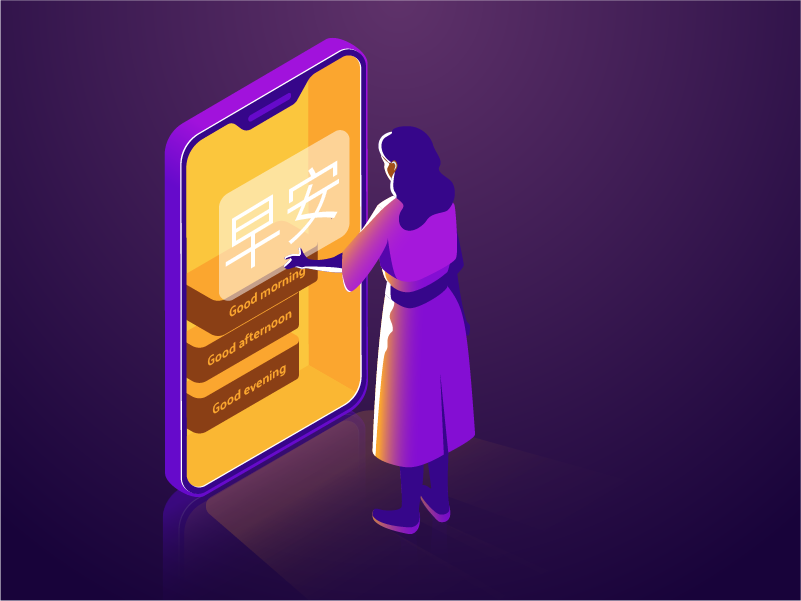
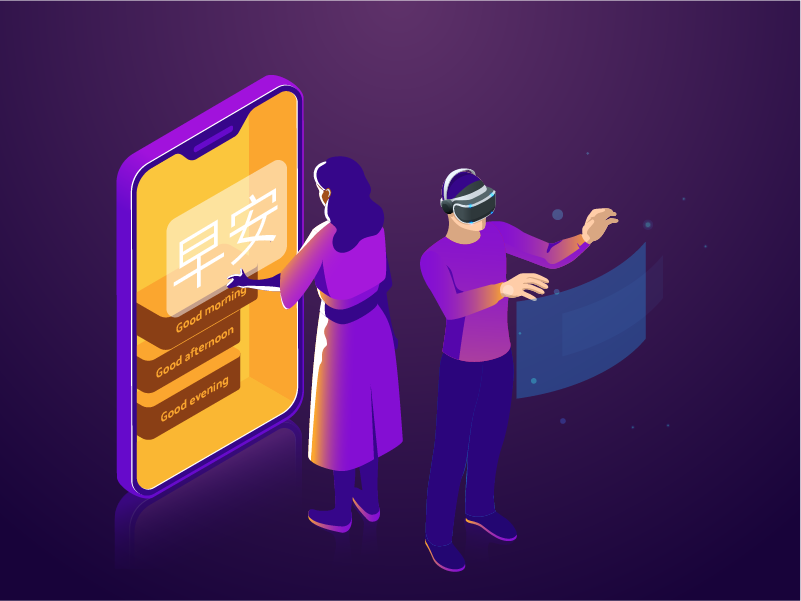
Add Products and styles

diff --git a/src/modules/Innovations/About/partials/Clients.vue b/src/modules/Innovations/About/partials/Clients.vue
@@ -1,0 +1,80 @@
+<template>
+  <v-container grid-list-lg>
+    <v-layout row wrap justify-center align-center>
+      <v-flex xl8 lg10 md12 xs12>
+        <v-card flat class="my-5">
+          <v-card-text class="py-5 text-xs-center">
+            <div class="my-5 text-xs-center">
+              <h1 class="primary--text mb-3">
+                {{ trans('Our Clients') }}
+              </h1>
+            </div>
+            <v-layout row wrap align-center justify-center>
+              <template v-for="item in items">
+                <v-flex
+                  :key="item"
+                  md4 xs12
+                  >
+                  <img :width="item.width" :src="item.thumbnail" alt="">
+                </v-flex>
+              </template>
+            </v-layout>
+          </v-card-text>
+        </v-card>
+      </v-flex>
+    </v-layout>
+  </v-container>
+</template>
+
+<script>
+import store from '@/store'
+import AOS from 'aos'
+import 'aos/dist/aos.css'
+import dole from '@/modules/Innovations/About/assets/images/clients/dole.png'
+import ilo from '@/modules/Innovations/About/assets/images/clients/ilo.png'
+import pjs from '@/modules/Innovations/About/assets/images/clients/pjs.png'
+
+export default {
+  store,
+  name: 'Clients',
+
+  data () {
+    return {
+      items: [
+        {
+          thumbnail: dole,
+          width: '200',
+        },
+        {
+          thumbnail: ilo,
+          width: '200',
+        },
+        {
+          thumbnail: pjs,
+          width: '300',
+        }
+      ]
+    }
+  },
+
+  components: {
+    AOS
+  },
+
+  mounted () {
+    this.preventRightClick()
+
+    setTimeout(function () {
+      AOS.init({
+        once: true,
+      })
+    }, 400)
+  },
+
+  methods: {
+    preventRightClick () {
+      return false
+    }
+  }
+}
+</script>

diff --git a/src/modules/Innovations/Product/systems/CMS.vue b/src/modules/Innovations/Product/systems/CMS.vue
@@ -22,7 +22,7 @@ import iconOne from './assets/icons/cms/1.svg'
 import iconTwo from './assets/icons/cms/2.svg'
 import iconThree from './assets/icons/cms/3.svg'
 import iconFour from './assets/icons/cms/4.svg'
-import video from './assets/videos/cms.mp4'
+// import video from './assets/videos/cms.mp4'
 
 export default {
   store,
@@ -44,9 +44,7 @@ export default {
       },
 
       content: {
-        dataset: {
-          hasVideo: false,
-        },
+        hasVideo: false,
         heading: 'Take control of your digital creations',
         iconOne: iconOne,
         titleOne: 'Dynamic Design Tool',
@@ -64,7 +62,7 @@ export default {
         titleFour: 'Choose Your Own Style',
         descriptionFour: 'Personalise the look of your applications through unique integrated themes',
 
-        video: video,
+        // video: video,
         endTitle: 'Ready to bring your brainchild into existence?',
         // endLink: 'https://www.rippl3s.com/',
         buttonTitle: 'Create Now',

diff --git a/src/modules/Innovations/Product/template/Content.vue b/src/modules/Innovations/Product/template/Content.vue
@@ -69,7 +69,7 @@
             </div>
 
             <!-- video -->
-            <template v-if="dataset.hasVideo">
+            <template v-if="item.hasVideo">
               <v-layout row wrap>
                 <v-flex xs12>
                   <v-card
@@ -85,6 +85,7 @@
                 </v-flex>
               </v-layout>
             </template>
+            <template v-else>{{ __('') }}</template>
             <!-- video -->
 
             <v-layout row wrap>
@@ -125,13 +126,13 @@ export default {
     AOS,
   },
 
-  data () {
-    return {
-      dataset: {
-        hasVideo: true,
-      }
-    }
-  },
+  // data () {
+  //   return {
+  //     dataset: {
+  //       hasVideo: true,
+  //     }
+  //   }
+  // },
 
   mounted () {
     setTimeout(function () {

diff --git a/src/modules/Innovations/Product/MobileApp.vue b/src/modules/Innovations/Product/MobileApp.vue
@@ -43,14 +43,15 @@ export default {
       },
 
       content: {
+        hasVideo: true,
         heading: 'Function better in a technological-driven society',
         iconOne: iconOne,
         titleOne: 'Real-life simulations',
         descriptionOne: 'Familiarise with everyday hustles, without the worries of committing real errors',
 
         iconTwo: iconTwo,
-        titleTwo: 'Integrated gamification',
-        descriptionTwo: 'Acquiring knowledge can still be fun',
+        titleTwo: 'Integrated experiential gamification',
+        descriptionTwo: 'Acquiring knowledge can still be fun! Take it to the next level with AR/VR',
 
         iconThree: iconThree,
         titleThree: 'Life-centric applications',

diff --git a/src/modules/Innovations/Product/systems/ManagementSystem.vue b/src/modules/Innovations/Product/systems/ManagementSystem.vue
@@ -51,7 +51,7 @@
     <!-- content -->
     <v-container grid-list-lg>
       <v-layout row wrap justify-center align-center>
-        <v-flex xl9 lg10 md12 xs12>
+        <v-flex lg11 md12 xs12>
           <v-layout row wrap>
             <v-flex xs12>
               <div class="py-5 text-xs-center">
@@ -60,7 +60,7 @@
               <div class="py-5">
                 <v-layout row wrap>
                   <template v-for="(item, i) in content.items">
-                    <v-flex md4 xs12 :key="i">
+                    <v-flex :offset-md1="true" md3 xs12 :key="i">
                       <v-card
                         hover
                         height="100%"

diff --git a/src/modules/Innovations/About/About.vue b/src/modules/Innovations/About/About.vue
@@ -9,6 +9,7 @@
       <v-layout row wrap>
         <v-flex xs12>
           <executives></executives>
+          <clients></clients>
           <how-we-work></how-we-work>
         </v-flex>
       </v-layout>
@@ -33,6 +34,7 @@
 import store from '@/store'
 import Banner from './partials/Banner'
 import Executives from './partials/Executives'
+import Clients from './partials/Clients'
 import HowWeWork from './partials/HowWeWork'
 import Mission from './partials/Mission'
 import Approach from './partials/Approach'
@@ -46,6 +48,7 @@ export default {
   components: {
     Banner,
     Executives,
+    Clients,
     HowWeWork,
     Mission,
     Approach,

diff --git a/src/components/Navigation/MainMenu.vue b/src/components/Navigation/MainMenu.vue
@@ -19,6 +19,7 @@
         </v-btn>
         <v-list light>
           <v-list-tile
+            class="main-menu__indent"
             :key="j"
             :href="`${menu.path}/${submenu.path}`"
             :class="current === submenu.name ? 'primary--text font-weight-bold v-list__tile--active' : ''"

diff --git a/src/modules/Innovations/Product/systems/HRMS.vue b/src/modules/Innovations/Product/systems/HRMS.vue
@@ -44,9 +44,7 @@ export default {
       },
 
       content: {
-        dataset: {
-          hasVideo: false,
-        },
+        hasVideo: false,
         heading: 'Managing your employees just got easier',
         iconOne: iconOne,
         titleOne: 'Real-Time Monitoring',

diff --git a/src/modules/Innovations/Product/systems/LMS.vue b/src/modules/Innovations/Product/systems/LMS.vue
@@ -45,6 +45,7 @@ export default {
       },
 
       content: {
+        hasVideo: true,
         heading: 'Interactive learning anytime, anywhere',
         iconOne: iconOne,
         titleOne: 'Organised course content and analytics tools',

diff --git a/src/modules/Innovations/Product/eLearning.vue b/src/modules/Innovations/Product/eLearning.vue
@@ -43,6 +43,7 @@ export default {
       },
 
       content: {
+        hasVideo: true,
         heading: 'We design educational courses as interactive experiences',
         iconOne: iconOne,
         titleOne: 'Captivating storylines',
